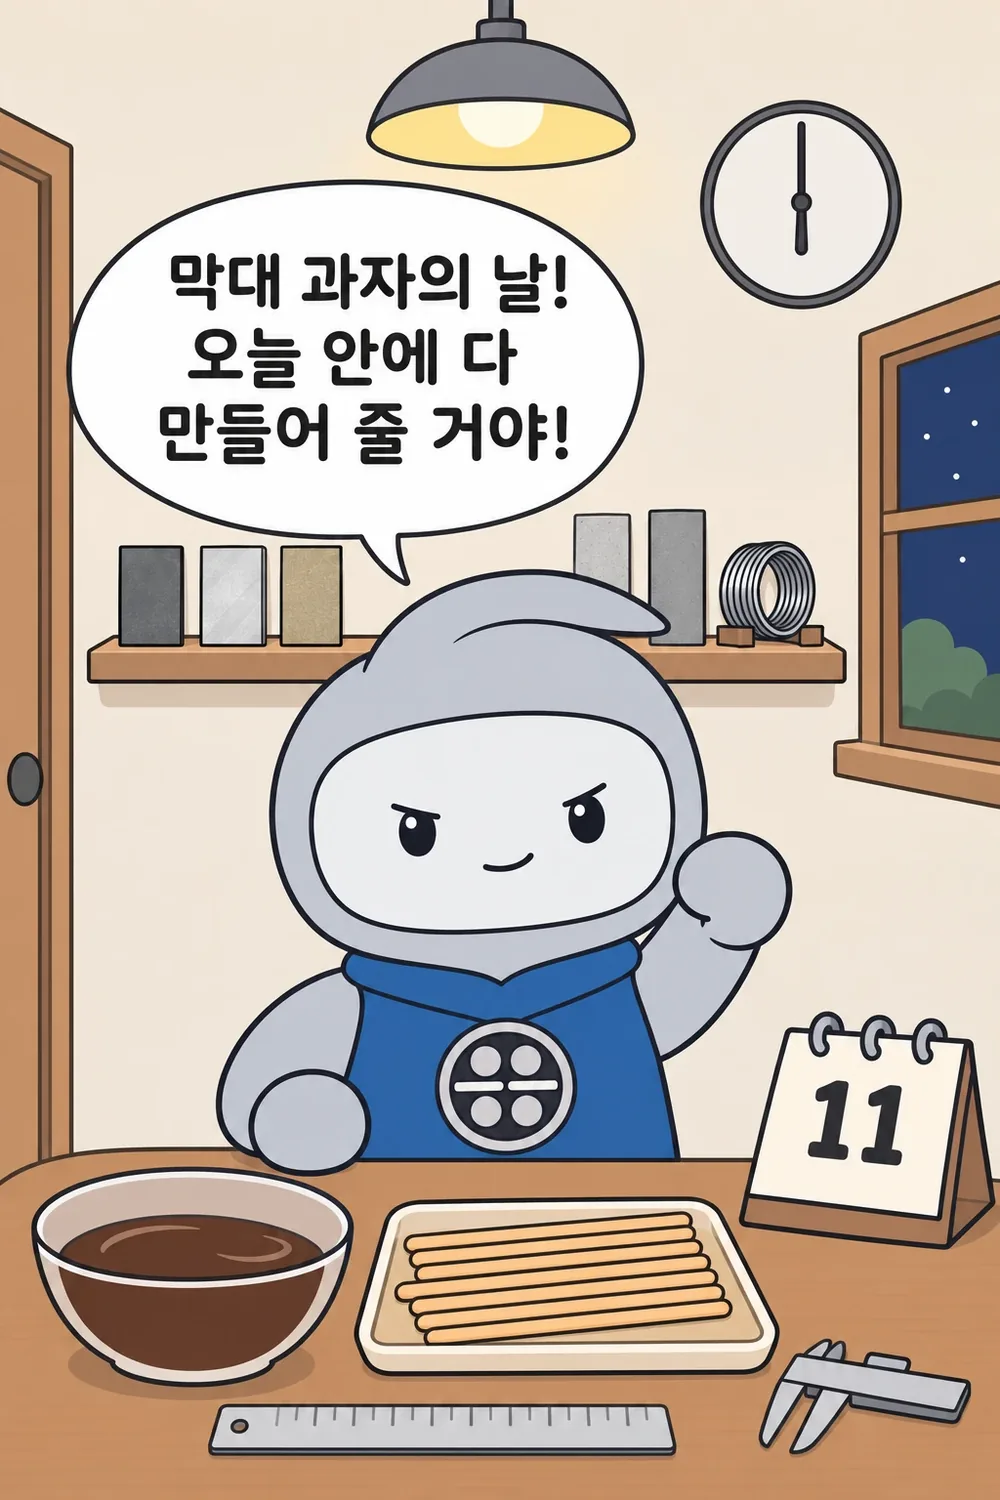
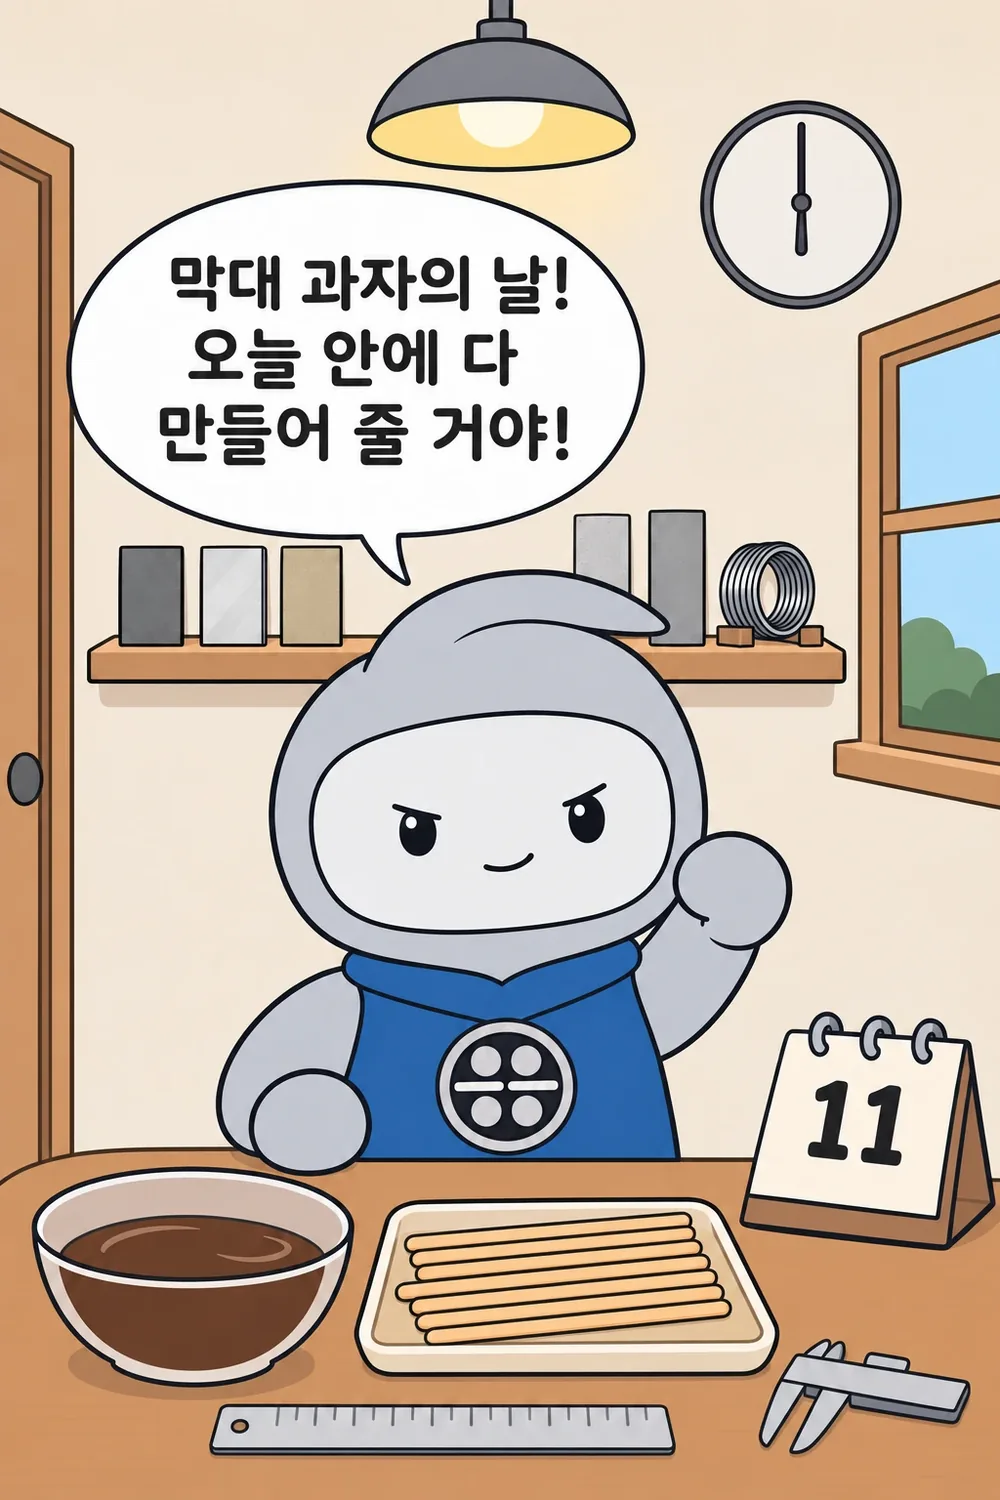
웹툰 6화 「11.11 데이」 1~3컷 새 그림으로 교체
Claude-Session: https://claude.ai/code/session_012Psw7ghbtZfmKdaiQn5pCV

diff --git a/sw.js b/sw.js
@@ -1,4 +1,4 @@
-var CACHE = "steel-grade-gacha-v77";
+var CACHE = "steel-grade-gacha-v78";
 var ASSETS = ["./", "./index.html", "./manifest.webmanifest",
               "./icon-192.png", "./icon-512.png", "./apple-touch-icon.png"];
 
